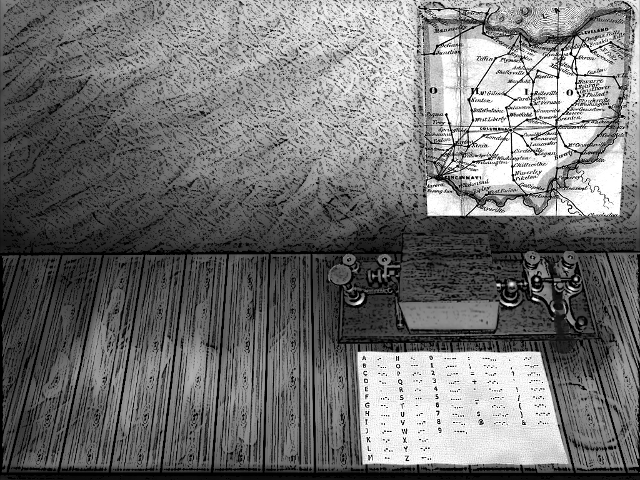
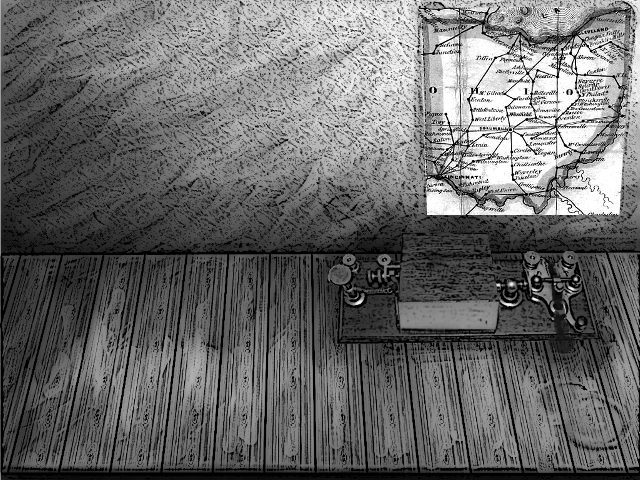
styling, added scorebox image

diff --git a/js/desk.js b/js/desk.js
@@ -214,8 +214,29 @@ define(['jquery', 'morseGen/morseDecode', 'morseGen/morseGen', 'morseGen/switchB
             applyCSSTransForm(this, transform);
         });
 
-        $('#lewiskeyImg').on('dragstart', function(event) {
+        $('#lewiskeyImg, #morseSheet').on('dragstart', function(event) {
             event.preventDefault();
+        });
+
+        var morseSheetOpen = false,
+            transformClosed = 'perspective(582px) rotateX(28deg) translate(125px, 223px) scale(0.27)',
+            transformOpen = 'translate(10px, 123px)';
+
+        $('#morseSheet').click(function(event) {
+            if (morseSheetOpen) {
+                morseSheetOpen = false;
+                applyCSSTransForm(this, transformClosed);
+            }
+            else {
+                morseSheetOpen = true;
+                applyCSSTransForm(this, transformOpen);
+            }
+        });
+
+        $('#morseSheet').mouseleave(function(event) {
+
+            morseSheetOpen = false;
+            applyCSSTransForm(this, transformClosed);
         });
 
     }

diff --git a/style/main.css b/style/main.css
@@ -27,6 +27,9 @@
     height: 106px;
     background: url('../img/clocksml.png') no-repeat;
 }
+#scoreBox {
+    position: absolute;
+}
 #min {
     position: absolute;
     width: 12px;
@@ -54,10 +57,7 @@
     width: 35%;
     height: 32%;
 }
-#morseSheet:hover {
-    -webkit-transform: translate(10px, 123px);
-    transform: scale(1);
-}
+
 #morseSheet {
     -webkit-transition: -webkit-transform 1s;
     transition: transform 1s;

diff --git a/index.html b/index.html
@@ -46,6 +46,8 @@
                 <div id="hour"></div>
                 <div id="min"></div>
             </div>
+            <img id="scoreBox" src="img/scoreBox.png" />
+            
             <img id="lewiskeyImg" src="img/LewisKeysm.png" />
             <img id="morseSheet" src="img/morseSheet.png" />
                       
